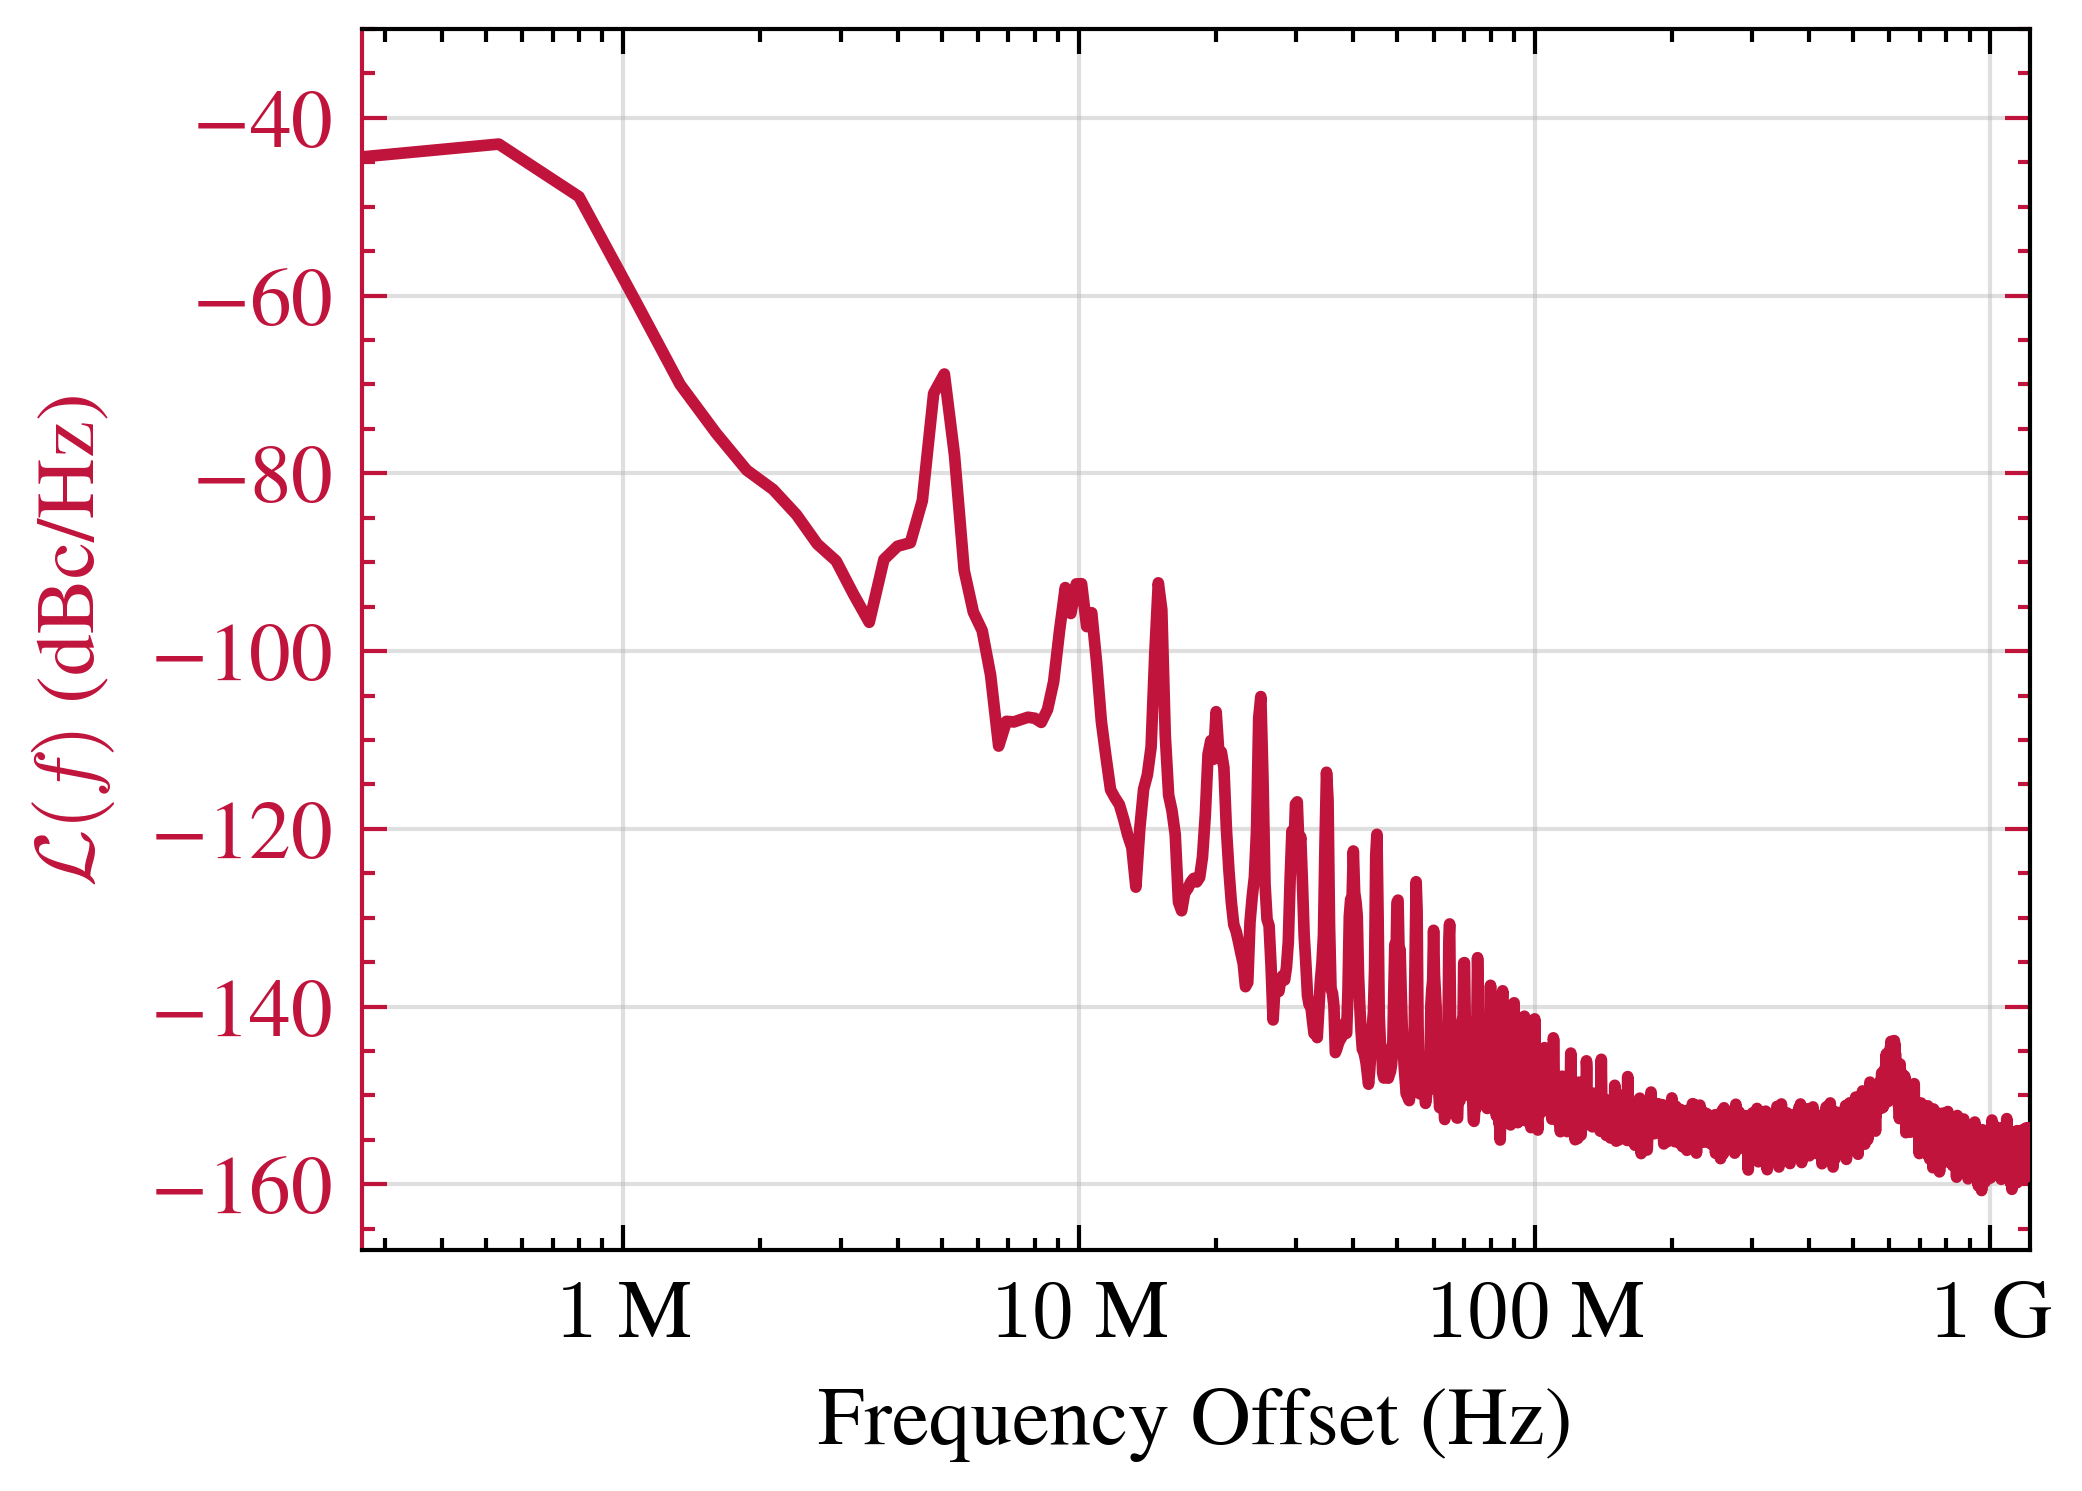
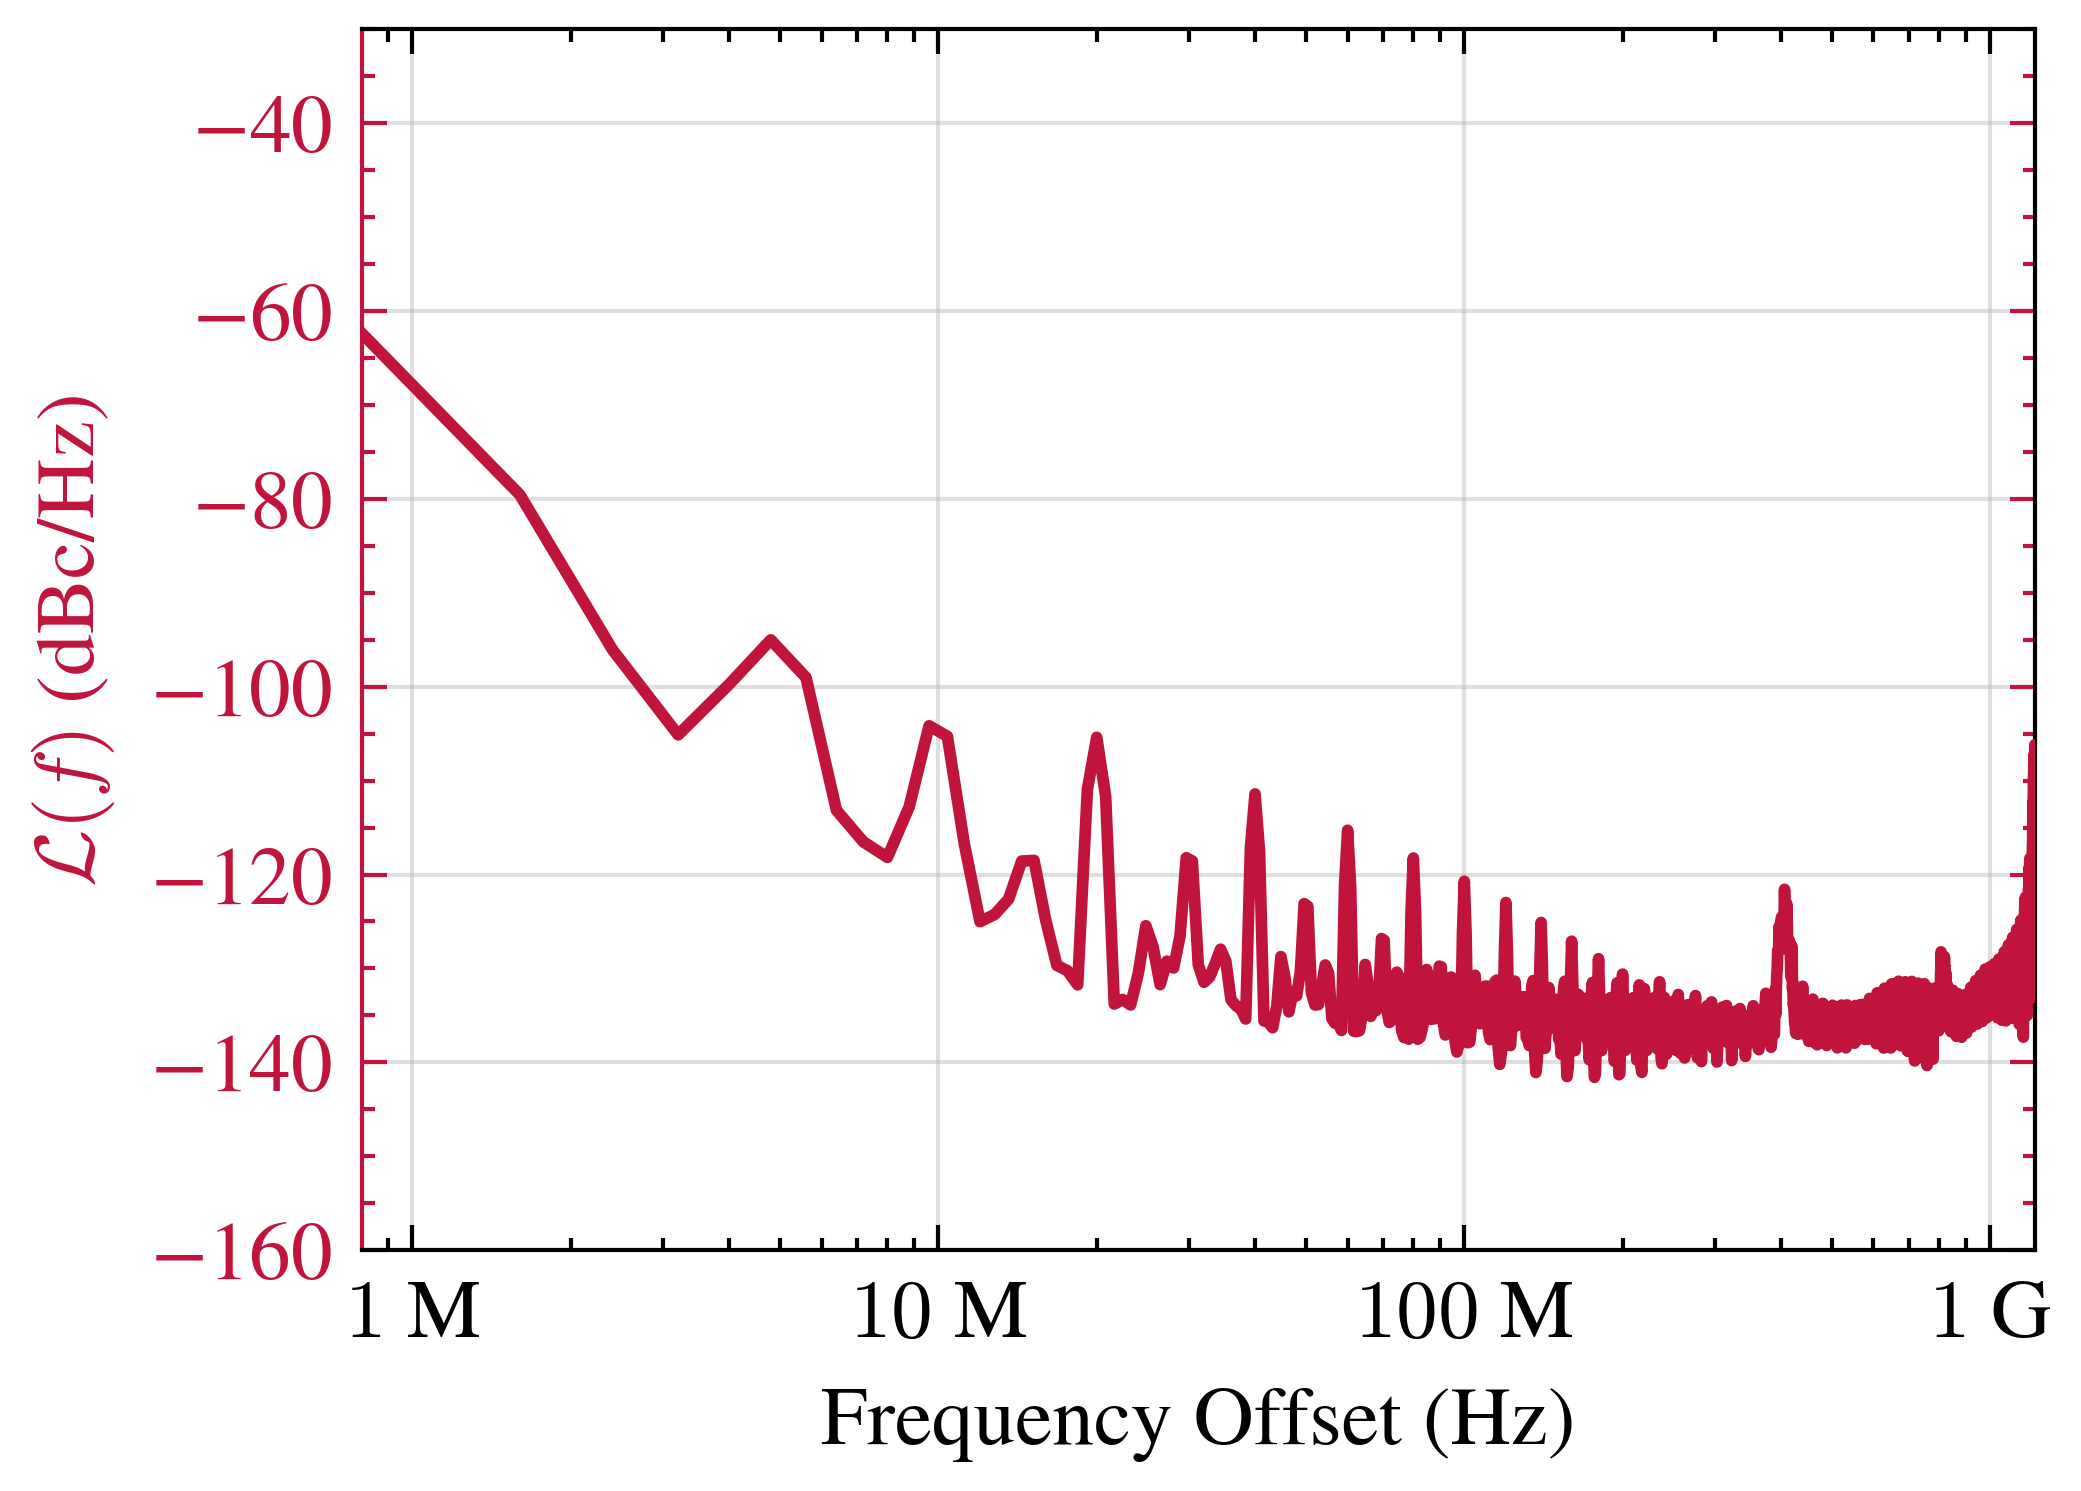
Phase nois plot updated, xschemrc file added to solve symbol not found error

diff --git a/schematic/top-pll/plots/Visualiser.py b/schematic/top-pll/plots/Visualiser.py
@@ -171,11 +171,11 @@ def plot_control_voltage(signals, mask, save_path=None):
     """Plot VCO control voltage — the primary PLL lock indicator."""
     fig, ax = plt.subplots(figsize=(12, 4))
     t = signals["time"][mask]
-    vctrl = signals["v(x2.vctrl)"][mask]
+    vctrl = signals["v(xpll.vctrl)"][mask]
 
     ax.plot(t, vctrl, linewidth=0.5, color="#1f77b4")
     ax.set_ylabel("Voltage (V)")
-    ax.set_title("VCO Control Voltage — v(x2.vctrl)")
+    ax.set_title("VCO Control Voltage — v(xpll.vctrl)")
     apply_time_axis(ax)
     fig.tight_layout()
     if save_path:
@@ -209,13 +209,13 @@ def plot_pfd_outputs(signals, mask, save_path=None):
     fig, axes = plt.subplots(2, 1, figsize=(12, 5), sharex=True)
     t = signals["time"][mask]
 
-    axes[0].plot(t, signals["v(x2.up)"][mask], linewidth=0.4, color="#9467bd")
+    axes[0].plot(t, signals["v(xpll.up)"][mask], linewidth=0.4, color="#9467bd")
     axes[0].set_ylabel("V")
-    axes[0].set_title("PFD UP Pulse — v(x2.up)")
+    axes[0].set_title("PFD UP Pulse — v(xpll.up)")
 
-    axes[1].plot(t, signals["v(x2.dn)"][mask], linewidth=0.4, color="#e377c2")
+    axes[1].plot(t, signals["v(xpll.dn)"][mask], linewidth=0.4, color="#e377c2")
     axes[1].set_ylabel("V")
-    axes[1].set_title("PFD DN Pulse — v(x2.dn)")
+    axes[1].set_title("PFD DN Pulse — v(xpll.dn)")
 
     apply_time_axis(axes[1])
     apply_time_axis(axes[0], xlabel=False)
@@ -230,9 +230,9 @@ def plot_dsm_output(signals, mask, save_path=None):
     fig, ax = plt.subplots(figsize=(12, 4))
     t = signals["time"][mask]
 
-    ax.plot(t, signals["v(x2.dsm_out)"][mask], linewidth=0.4, color="#ff7f0e")
+    ax.plot(t, signals["v(xpll.dsm_out)"][mask], linewidth=0.4, color="#ff7f0e")
     ax.set_ylabel("Voltage (V)")
-    ax.set_title("Delta-Sigma Modulator Output — v(x2.dsm_out)")
+    ax.set_title("Delta-Sigma Modulator Output — v(xpll.dsm_out)")
     apply_time_axis(ax)
     fig.tight_layout()
     if save_path:
@@ -356,9 +356,9 @@ def plot_overview(signals, mask, save_path=None):
     t = signals["time"][mask]
 
     # Panel 1: Control voltage
-    axes[0].plot(t, signals["v(x2.vctrl)"][mask], lw=0.5, color="#1f77b4")
+    axes[0].plot(t, signals["v(xpll.vctrl)"][mask], lw=0.5, color="#1f77b4")
     axes[0].set_ylabel("V")
-    axes[0].set_title("VCO Control Voltage — v(x2.vctrl)")
+    axes[0].set_title("VCO Control Voltage — v(xpll.vctrl)")
 
     # Panel 2: Clocks
     axes[1].plot(t, signals["v(clk_in)"][mask], lw=0.3, alpha=0.8, label="clk_in")
@@ -368,14 +368,14 @@ def plot_overview(signals, mask, save_path=None):
     axes[1].legend(loc="upper right", fontsize=8)
 
     # Panel 3: PFD outputs
-    axes[2].plot(t, signals["v(x2.up)"][mask], lw=0.3, alpha=0.8, label="UP")
-    axes[2].plot(t, signals["v(x2.dn)"][mask], lw=0.3, alpha=0.8, label="DN")
+    axes[2].plot(t, signals["v(xpll.up)"][mask], lw=0.3, alpha=0.8, label="UP")
+    axes[2].plot(t, signals["v(xpll.dn)"][mask], lw=0.3, alpha=0.8, label="DN")
     axes[2].set_ylabel("V")
     axes[2].set_title("PFD Outputs (UP / DN)")
     axes[2].legend(loc="upper right", fontsize=8)
 
     # Panel 4: DSM output
-    axes[3].plot(t, signals["v(x2.dsm_out)"][mask], lw=0.4, color="#ff7f0e")
+    axes[3].plot(t, signals["v(xpll.dsm_out)"][mask], lw=0.4, color="#ff7f0e")
     axes[3].set_ylabel("V")
     axes[3].set_title("Delta-Sigma Modulator Output")
 